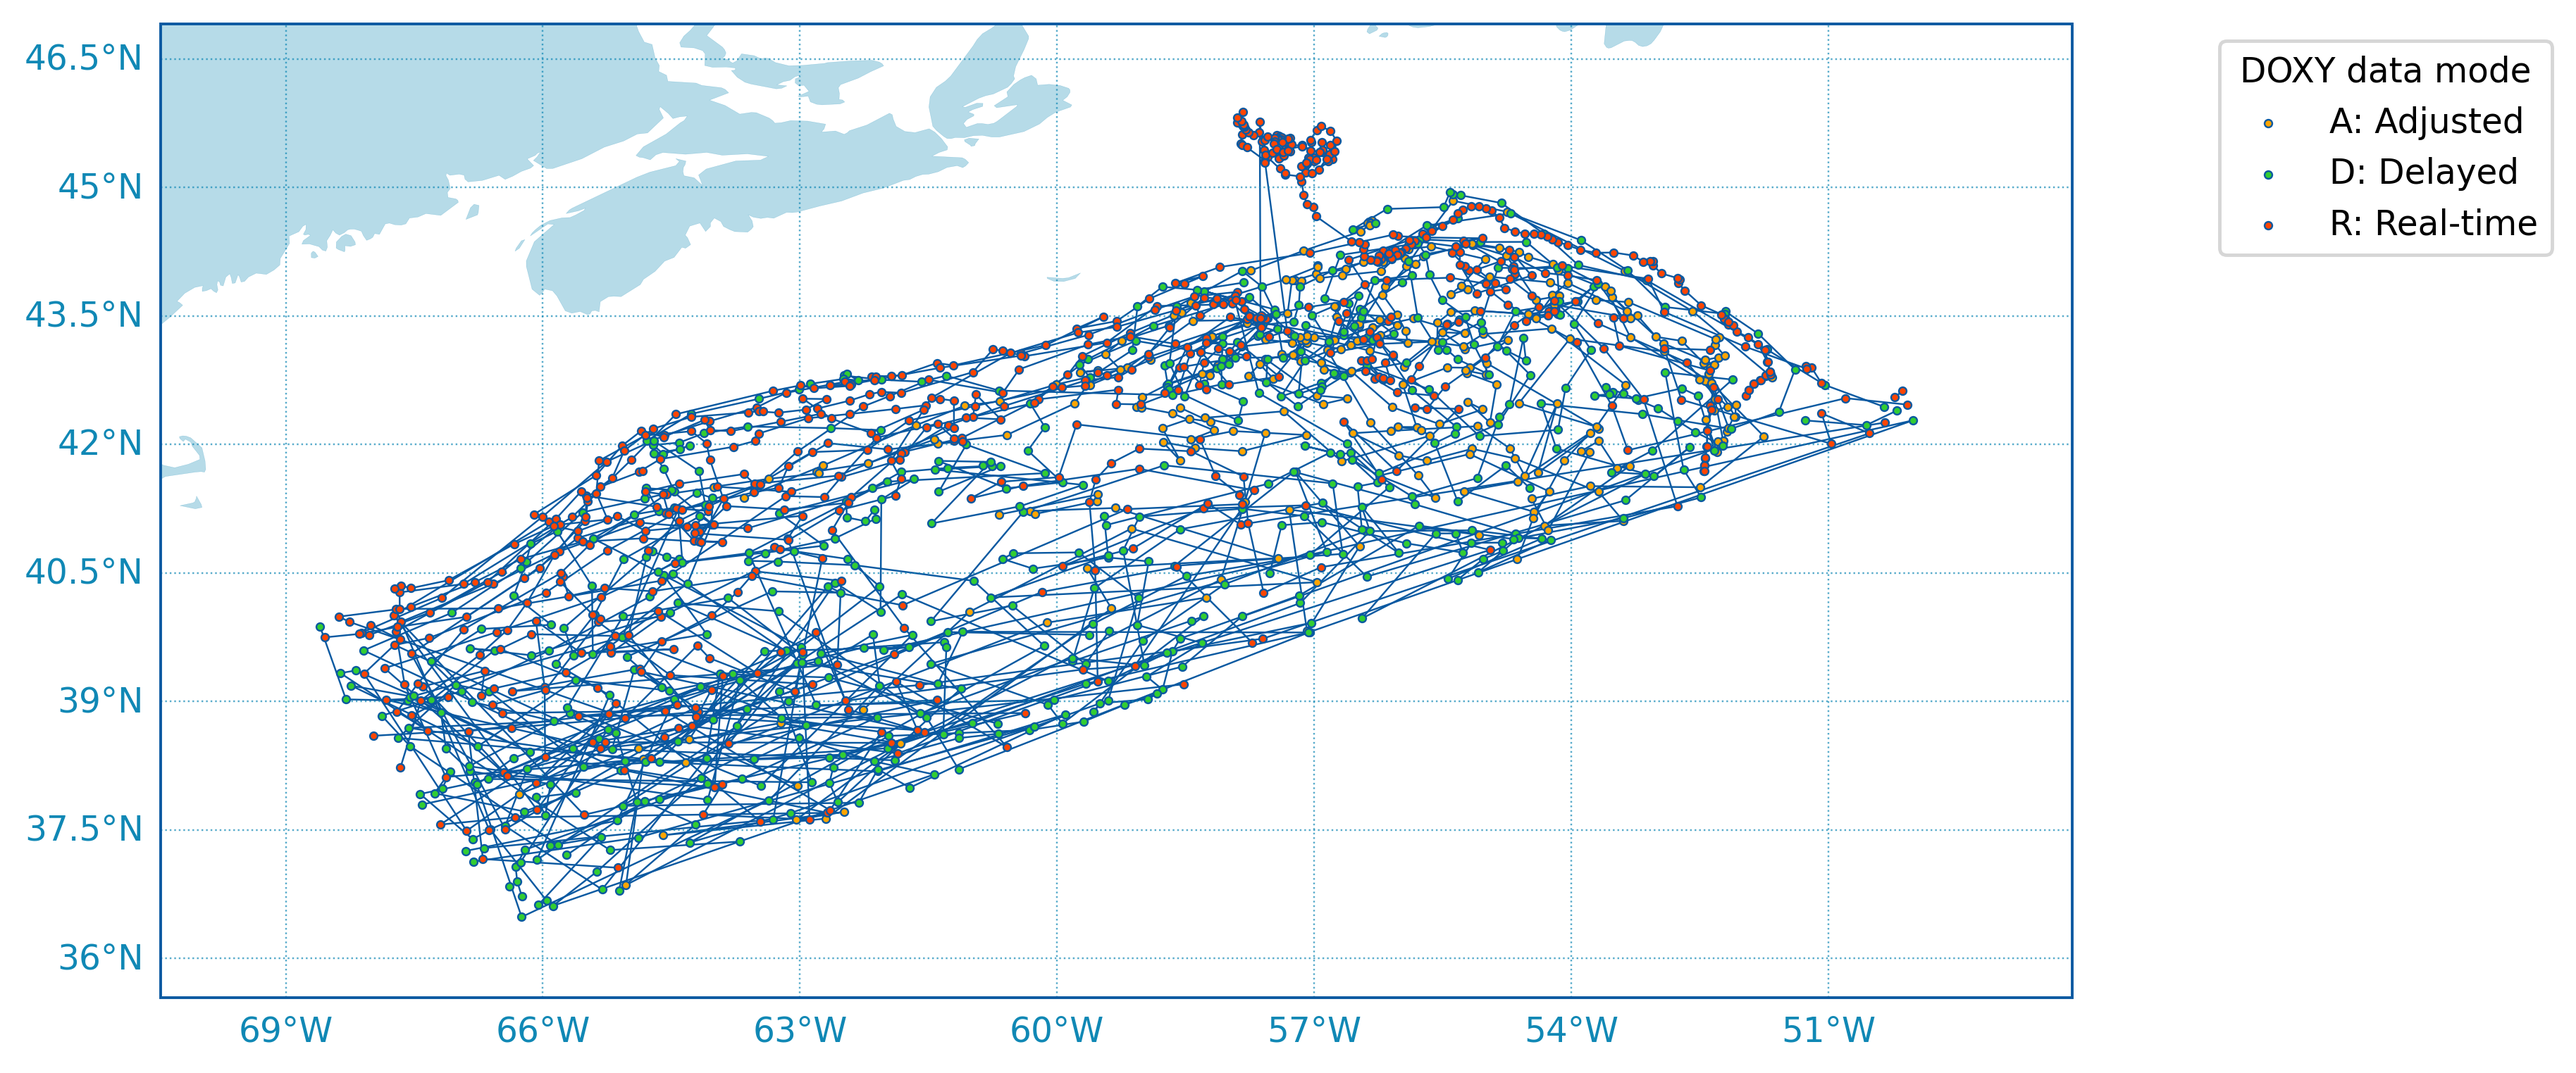
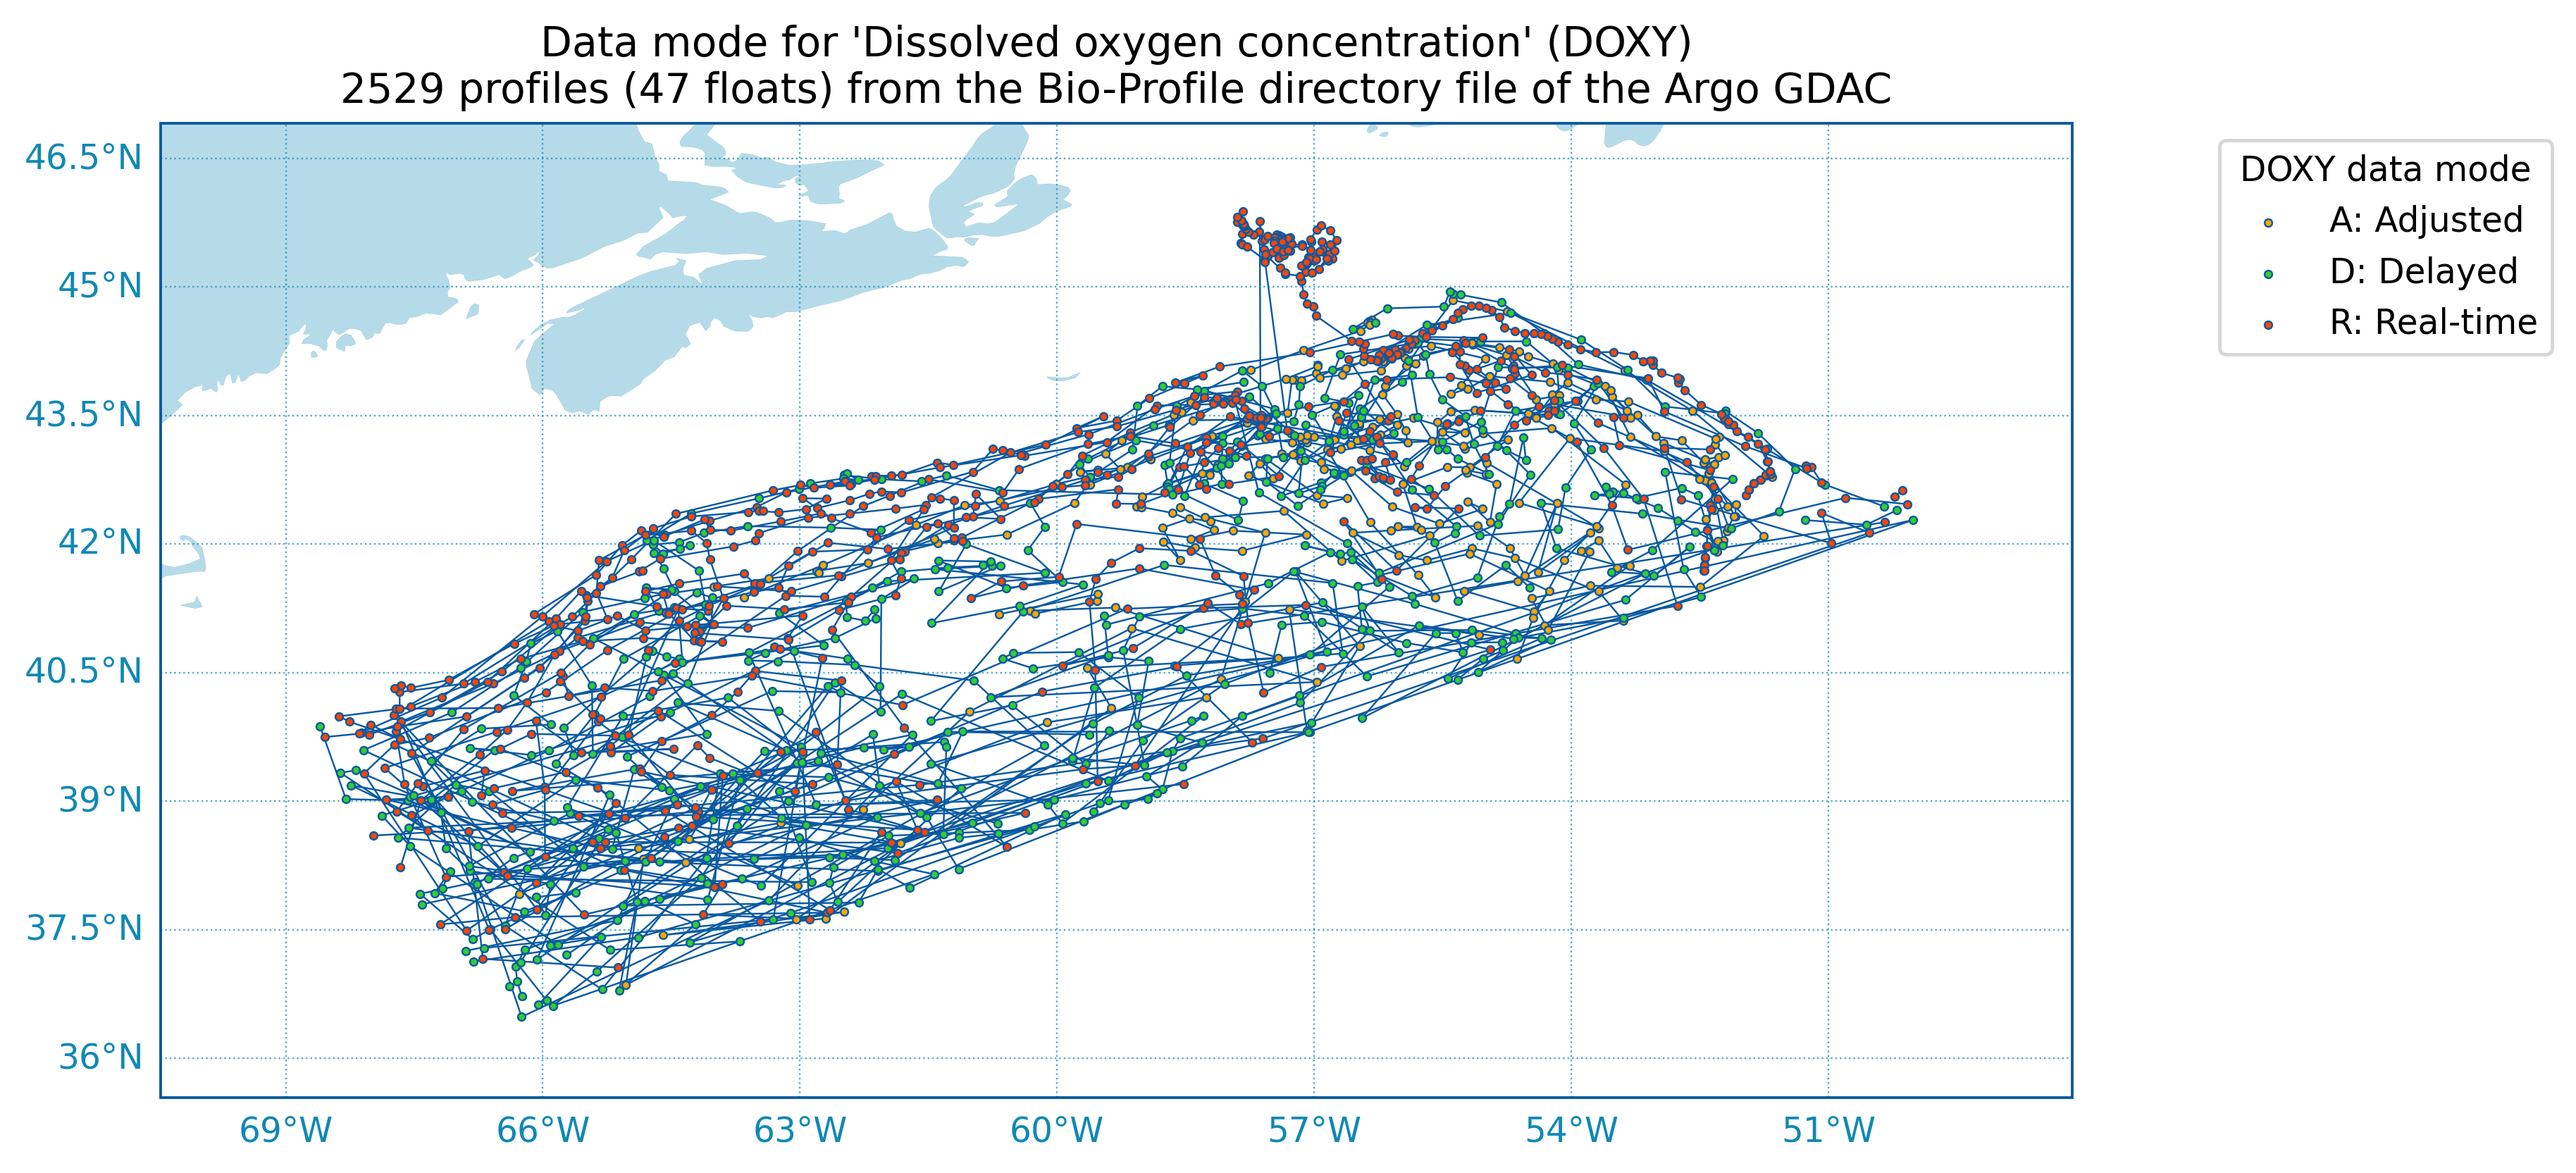
add title

diff --git a/analysis/data_availability/map_doxy_roi_profiles.py b/analysis/data_availability/map_doxy_roi_profiles.py
@@ -40,6 +40,9 @@ for region in Path('regions').glob('*.csv'):
         legend_title=f'{param} data mode',
         markersize=5,
     )
+    
+    # title
+    ax.set_title(f"Data mode for '{param_info['prefLabel']}' ({param})\n{ix.N_MATCH} profiles ({df.wmo.unique().shape[0]} floats) from the {ix.convention_title}")
 
     fig.savefig(f'figures/{region.name.replace(".csv", "")}_doxy_profiles_map.png', bbox_inches='tight', dpi=350)
     plt.close(fig)
